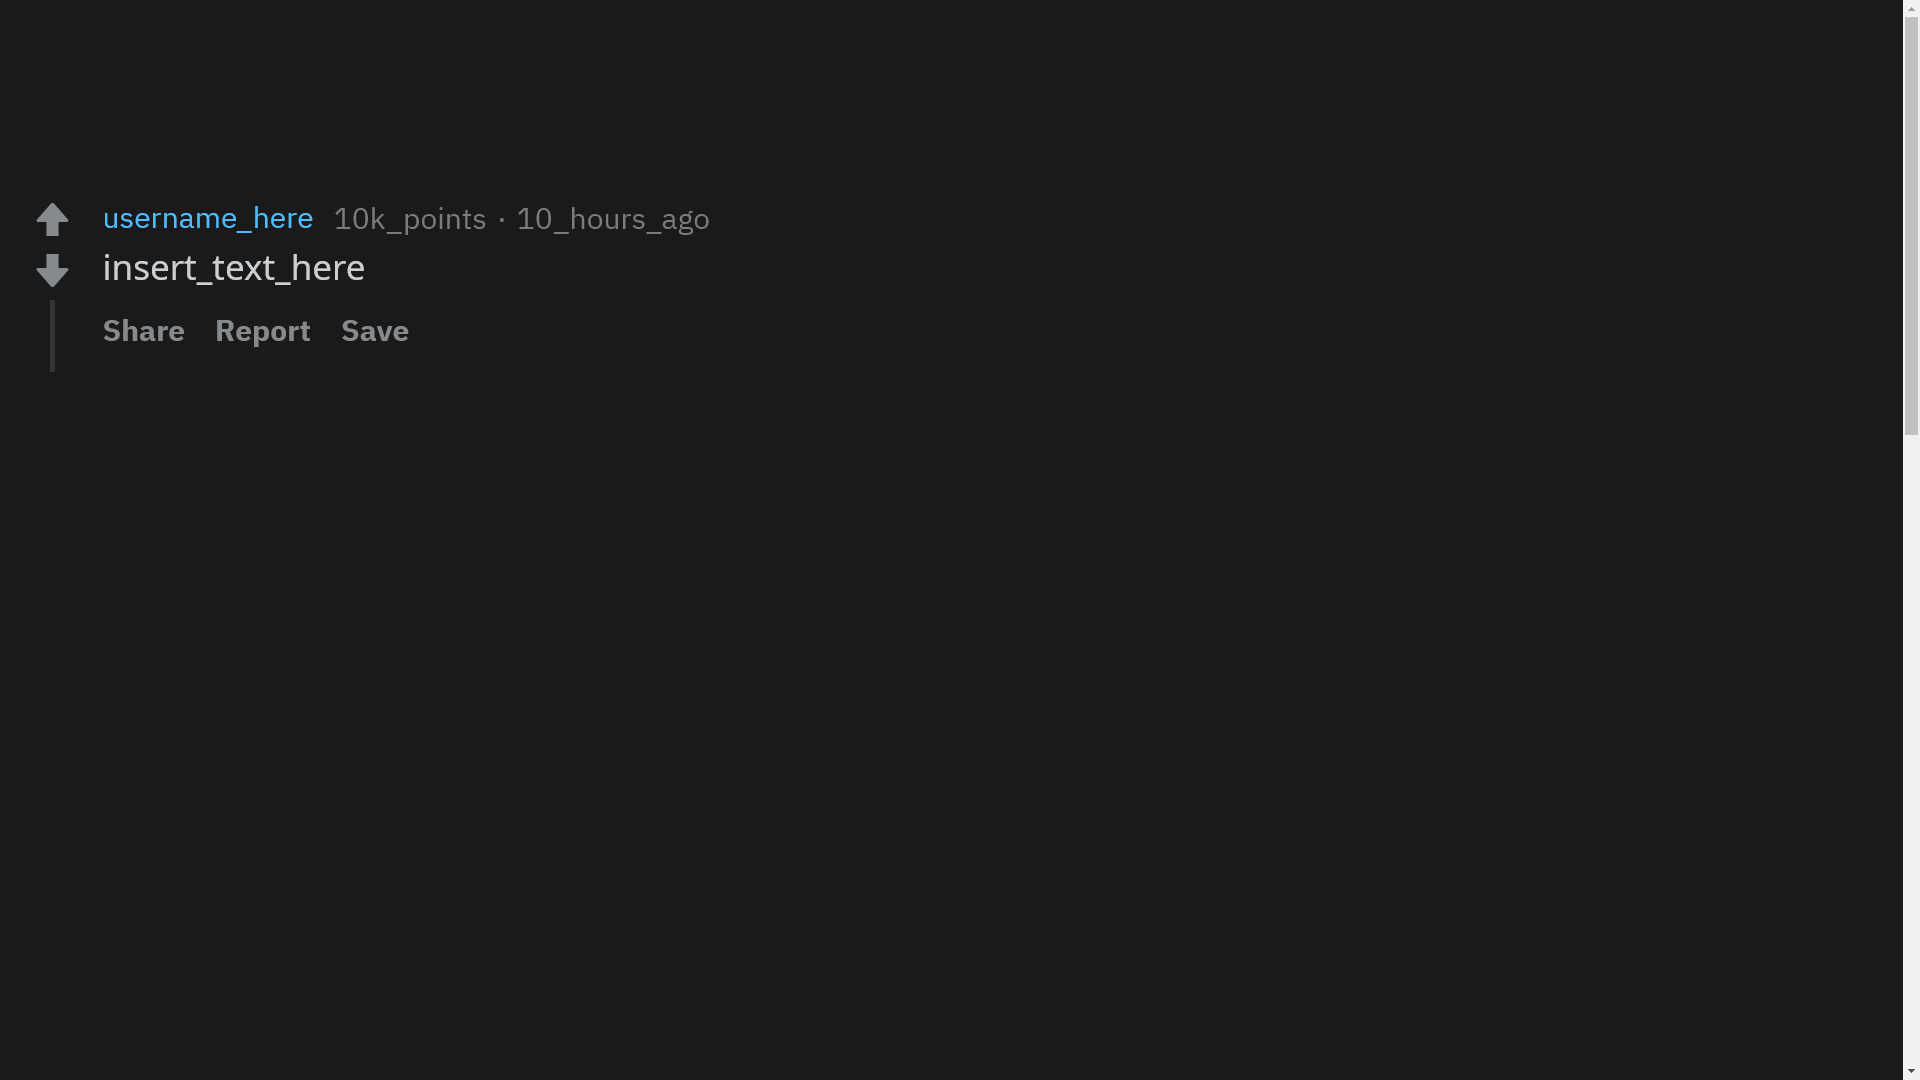
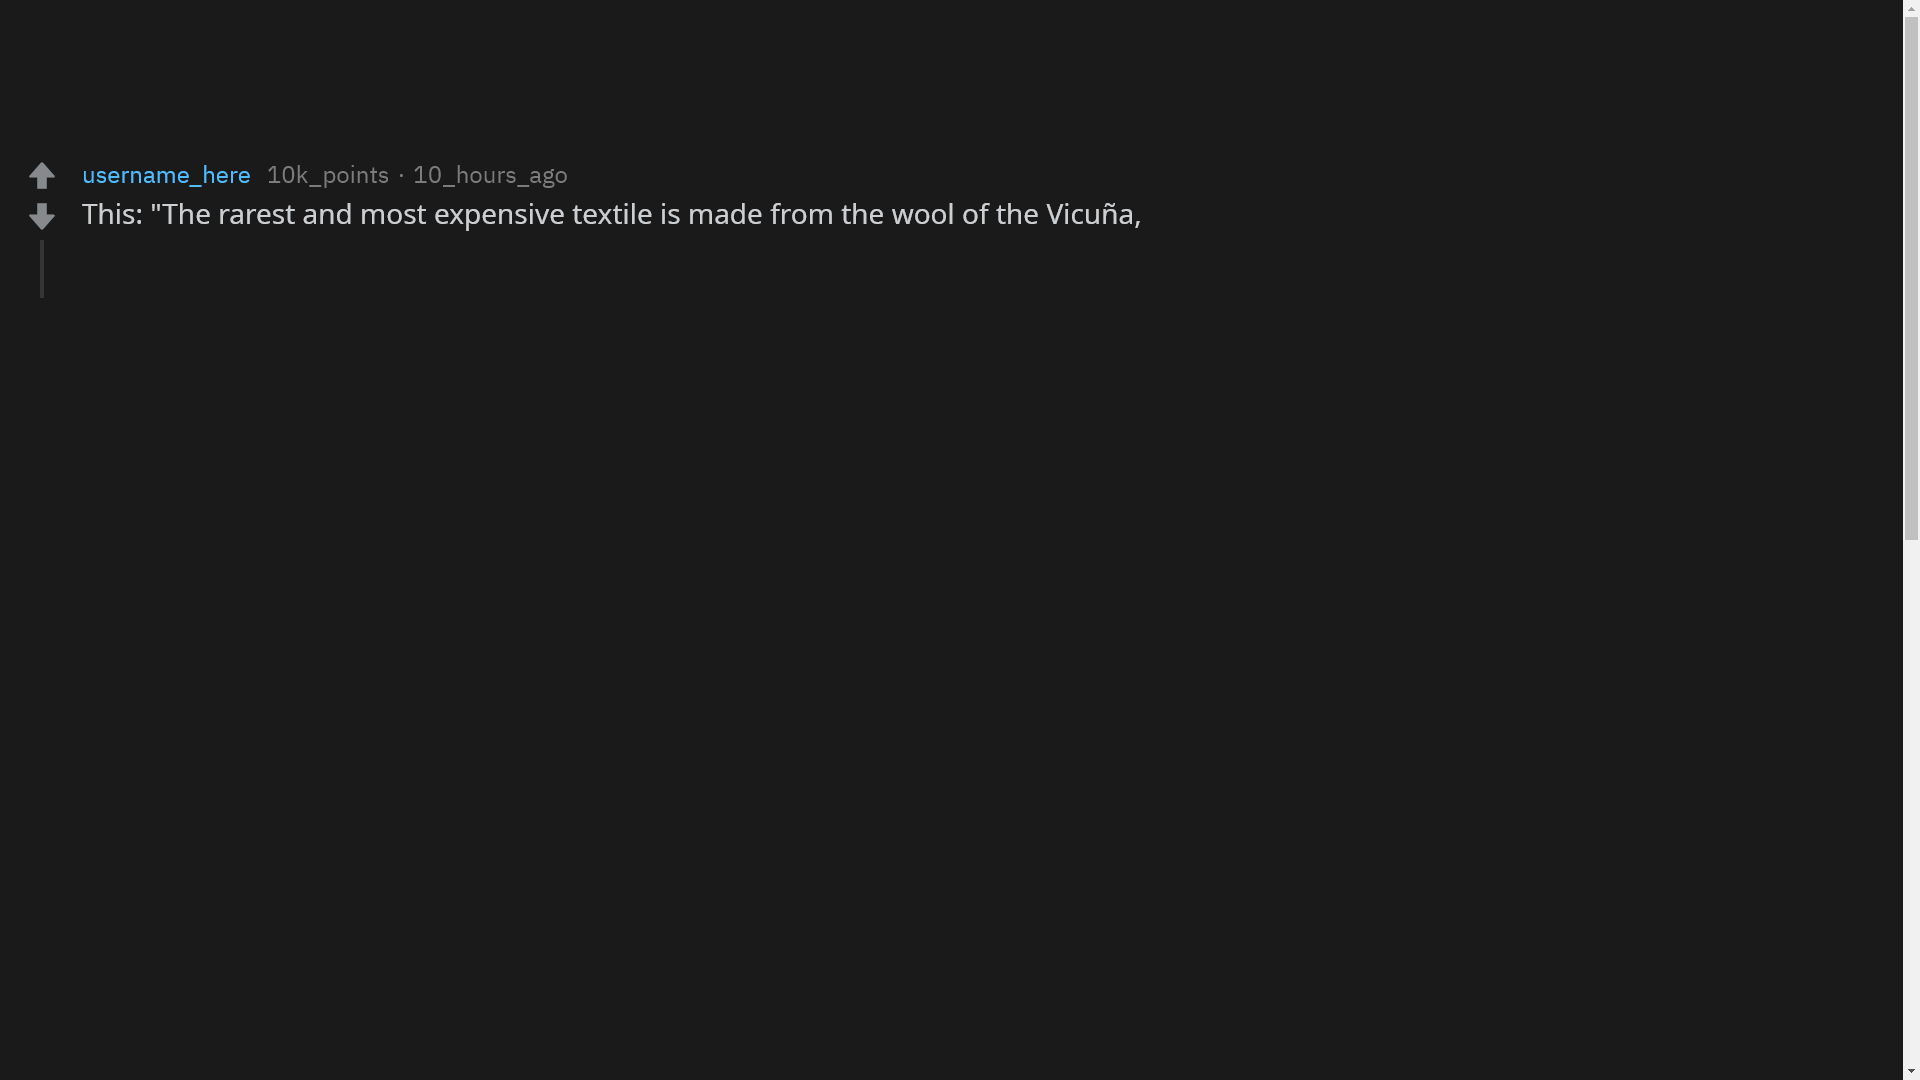
Headless chrome opens file, puts in comment part by part and takes a screenshot as it goes along

diff --git a/PythonFiles/code.py b/PythonFiles/code.py
@@ -15,6 +15,9 @@ from numpy import *
 import click
 from selenium import webdriver
 from selenium.webdriver.chrome.options import Options
+from selenium.webdriver.common.by import By
+from selenium.webdriver.support.ui import WebDriverWait
+from selenium.webdriver.support import expected_conditions as EC
 
 import shutil
 
@@ -23,7 +26,6 @@ chromeOptions = webdriver.ChromeOptions()
 chromeOptions.add_argument('--headless')
 chromeOptions.add_argument(f'window-size={1920}x{1080}')
 driver = 0
-
 
 """
     - Get comments
@@ -45,7 +47,9 @@ reddit = praw.Reddit(client_id = 'W7V-Goda74pQFA',
                      user_agent = 'AzureScale1')
 
 subreddit = reddit.subreddit('askreddit')
-hot_python= subreddit.hot(limit = 1)
+submission1 = reddit.submission(url='https://www.reddit.com/r/AskReddit/comments/c01upz/you_can_fill_a_pool_with_anything_you_want_money/')
+#hot_python = subreddit.hot(limit = 1)
+hot_python = [submission1]
 
 commentDict = {}
 
@@ -85,25 +89,74 @@ def printComments():
 def startDriver():
     global driver
     driver = webdriver.Chrome(executable_path = chromePath, options = chromeOptions)
+    driver.get("http://localhost//TalkReddit//Comments.html")
 
 def captureHTMl(srcNum):
-    driver.get("http://localhost//TalkReddit//Comments.html")
-    driver.execute_script("document.body.style.zoom='250%'")
+    #driver.get("http://localhost//TalkReddit//Comments.html")
+    driver.execute_script("document.body.style.zoom='200%'")
     driver.save_screenshot("attempt"+ srcNum +".png")
-    driver.quit()
+    #driver.quit()
 
 def copyFile():
     shutil.copy2('C://xampp//htdocs//TalkReddit//Comments_Base.html', 'C://xampp//htdocs//TalkReddit//Comments.html')
- 
+
+def splitComment():
+    comments = []
+    
+    for commentArray in commentDict.values():
+        for comment in commentArray:
+            print(20*'-')
+            sentences = []
+            sIndex = 0
+            endIndex = 0
+            commentBody = comment.body
+            for char in commentBody:
+                endIndex += 1
+                if ( char == '.' and commentBody[endIndex] != '.' or char == ',' and not commentBody[endIndex - 2].isdigit() or char == '?'):
+                    sentence = commentBody[sIndex:endIndex]
+                    sIndex = endIndex
+                    sentences.append(sentence)
+                    #print(sentence)
+
+            comments.append(sentences)
+            #break
+
+    return comments
+
+def replaceText(newText):
+    #driver.execute_script("""document.querySelector("username_here");""")
+    #inputElement = driver.find_element_by_id('commentBodyText')
+    element = WebDriverWait(driver, 10).until(EC.presence_of_element_located((By.ID, "commentBodyText")))
+    newText = element.text + newText
+    #print("newText:", newText)
+    #driver.execute_script("arguments[0].innerText = \'" +"\\"+ str(newText)+"\\"+ "\'", element)
+    driver.execute_script("arguments[0].textContent = arguments[1];", element, newText)
+
+# status: hidden/visible
+def divVis(divID, status):
+    element = WebDriverWait(driver, 10).until(EC.presence_of_element_located((By.ID, divID)))
+    driver.execute_script("arguments[0].style.visibility=\'"+ status + "\'", element);
 
 # runs at the start
 def main():
     getComments(1)
-    printComments()
+    #printComments()
     startDriver()
     copyFile()
-    captureHTMl()
- 
+    comments = splitComment()
+    #print(comments[0])
+    index = 1
+    divVis("commentFooter", "hidden")
+    for comment in comments[0]:
+        replaceText(comment)
+        captureHTMl(str(index))
+        index += 1
+    
+        if index == len(comments[0]):
+            divVis("commentFooter", "visible")
+
+    driver.quit()
+     
 if __name__ == '__main__':
     main()
 
